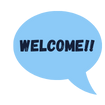
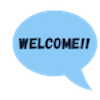
updated js, css, and images pony animation

Changed region(s): [[0.18, 0.36, 0.9, 0.51], [0.87, 0.87, 0.9, 0.9]]

diff --git a/script.js b/script.js
@@ -248,12 +248,7 @@ const ctx = canvas.getContext('2d');
 
 const canvas2 = document.getElementById('canvas2');
 const ctx2 = canvas2.getContext('2d');
-/*
-const styles = {
-    h1: {font: "36px Segoe UI', Tahoma, Geneva, Verdana, sans-serif", fillStyle: "black",},
-    h2: {font: "18px Segoe UI', Tahoma, Geneva, Verdana, sans-serif", fillStyle: "black"},
-};
-*/
+
 // Object to hold animation images and x, y positions
 let levelCel = {
     anim2: new Image(),
@@ -267,9 +262,27 @@ let requestId = 0;
 levelCel.anim2.src = "images/anim2.png";
 levelCel.anim3.src = "images/anim3.png";
 levelCel.anim4.src = "images/anim4.png";
-console.log(levelCel.anim2.width);
-console.log(levelCel.anim2.height);
-console.log(levelCel);
+
+
+let ponyAnim = {
+    welcome: new Image(),
+    pony: new Image(),
+    welcomeX: canvas2.width * 0.6,
+    welcomeY: 0,
+    ponyX: canvas2.width * 0.7,
+    ponyY: 0
+};
+
+// Assign source for animation images
+ponyAnim.welcome.src = "images/welcome.png";
+ponyAnim.pony.src = "images/clappPonySmall.png";
+
+let ponyImage = ponyAnim.pony,
+    welcomeImage = ponyAnim.welcome,
+    xa = ponyAnim.welcomeX,
+    ya = ponyAnim.welcomeY,
+    xb = ponyAnim.ponyX,
+    yb = ponyAnim.ponyY;
 
 // Functions called when page opens to initially fill game contents
 fillLevel();
@@ -277,6 +290,8 @@ fillChances();
 getGridLayout();
 resizeCanvas();
 drawHeadings();
+drawPony();
+//setTimeout(removeWelcome,10000);
 
 // Sets canvas space size for headings/animation based on device size
 function resizeCanvas() {
@@ -321,6 +336,20 @@ function animate() {
         x = levelCel.posX;
         ctx.clearRect(0, 0, canvas.width, canvas.height);
     }
+}
+
+
+
+    console.log(ponyImage.style.display);
+// Use canvas2 to draw Pony animation below game
+function drawPony() {
+    ctx2.drawImage(welcomeImage, xa, ya);
+    ctx2.drawImage(ponyImage, xb, yb);
+}
+
+//Remove welcome image from screen
+function removeWelcome() {
+    welcomeImage.style.display = 'none';
 }
 
 // Let's Play button is clicked
@@ -425,6 +454,7 @@ function updateRound() {
         case 5:
             ctx.clearRect(0, 0, canvas.width, canvas.height);
             anImage = levelCel.anim2;
+            //drawPony();
             animate();
             numShapes = 4;
             maxNumber = shapes.length;

diff --git a/style.css b/style.css
@@ -175,18 +175,18 @@ body    {
 }
 .box_2 {
     display: flex;
+    flex-direction: row;
     background-color: transparent;
-    color: #333;
     border: none;
     padding: 5px;
     margin-top: 5px;
-    text-align: justify;
 }
 
 #canvas2 {
     position: relative;
+    /*z-index: 2;*/
     min-width: 100;
-    min-height: 100;
+    min-height: 50;
 
 }
 
